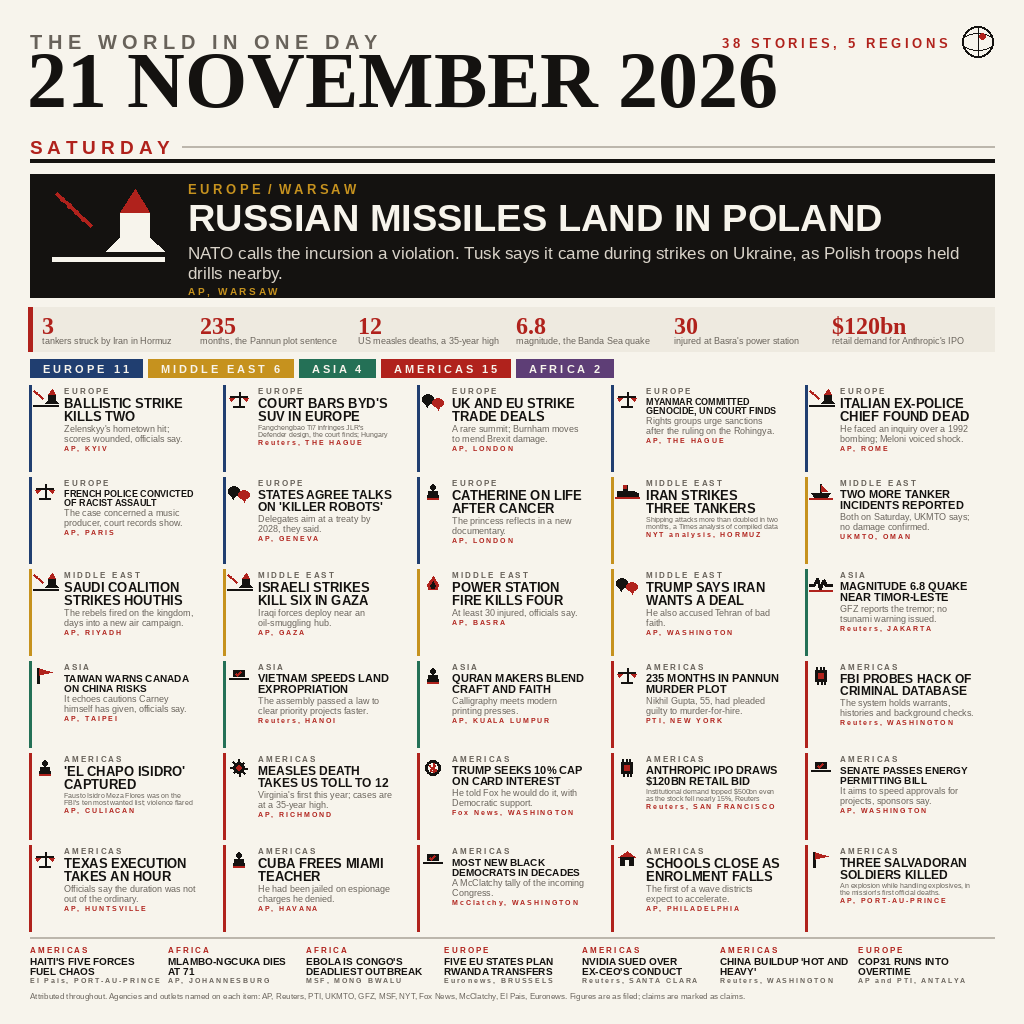
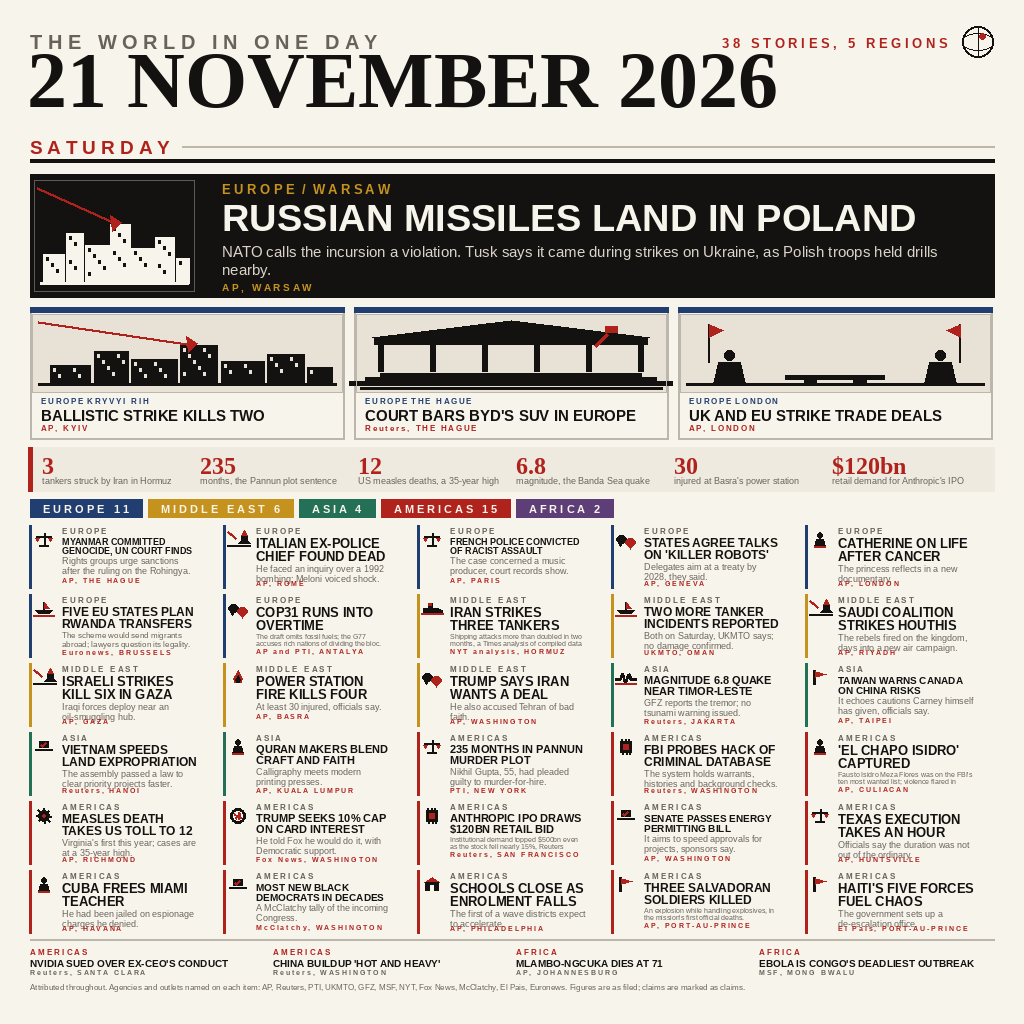
Illustrate the lead and three cards, group the well by region, close the page cleanly

Changed region(s): [[0.0, 0.1562, 0.9688, 1.0]]

diff --git a/build_post.py b/build_post.py
@@ -492,6 +492,130 @@ def story_total():
 
 # ----------------------------------------------------------------- drawing
 
+def art_skyline(d, x0, y0, w, h, accent=ACCENT, ground=None, ink=None):
+    """A city skyline with a strike trail above it.
+
+    A scene, not a symbol: ground, graduated towers, lit windows, and the
+    track coming in. This is the kind of panel the measured data rewards,
+    because it reads as an illustration rather than an icon.
+
+    `ground` and `ink` let the same scene be drawn light-on-dark for the black
+    lead band and dark-on-light inside the well, without a second drawing.
+    """
+    sky = ground if ground is not None else (232, 226, 214)
+    body = ink if ink is not None else INK
+    d.rectangle([x0, y0, x0 + w, y0 + h], fill=sky)
+    base = y0 + h - 8
+    d.line([(x0 + 6, base), (x0 + w - 6, base)], fill=body, width=3)
+    towers = [(0.06, 0.30, 0.13), (0.20, 0.52, 0.11), (0.32, 0.40, 0.15),
+              (0.48, 0.62, 0.12), (0.61, 0.36, 0.14), (0.76, 0.48, 0.12),
+              (0.89, 0.26, 0.08)]
+    for fx, fh, fw in towers:
+        bx = x0 + w * fx
+        bw = w * fw
+        bh = (h - 16) * fh
+        d.rectangle([bx, base - bh, bx + bw, base], fill=body)
+        # lit windows, kept strictly inside their own tower: a dot that
+        # escapes the silhouette reads as damage, not as a lit room
+        step_x, step_y = 5.0, 6.0
+        cols_n = int((bw - 4) // step_x)
+        rows = int((bh - 6) // step_y)
+        for r in range(rows):
+            for c in range(cols_n):
+                if (r * 3 + c * 5) % 4 == 0:
+                    wx = bx + 3 + c * step_x
+                    wy = base - bh + 3 + r * step_y
+                    if wx + 2 <= bx + bw - 2 and wy + 3 <= base - 3:
+                        d.rectangle([wx, wy, wx + 2, wy + 3], fill=sky)
+    # the track, entering from the frame edge and ending on a rooftop, so it
+    # has both a source and a target instead of floating in the sky
+    tgt = x0 + w * 0.52
+    tx0, ty0 = x0 + w * 0.02, y0 + 8
+    tx1, ty1 = tgt, base - (h - 16) * 0.62
+    d.line([(tx0, ty0), (tx1, ty1)], fill=accent, width=3)
+    d.polygon([(tx1 + 4, ty1 - 2), (tx1 - 7, ty1 - 9), (tx1 - 5, ty1 + 7)],
+              fill=accent)
+
+
+def art_court(d, x0, y0, w, h):
+    """A courthouse facade: pediment, columns, steps, and the gavel.
+
+    The column rhythm and the steps give the panel the density of a drawing;
+    a single icon never has that.
+    """
+    d.rectangle([x0, y0, x0 + w, y0 + h], fill=(232, 226, 214))
+    base = y0 + h - 7
+    cx = x0 + w / 2
+    # steps
+    for i in range(3):
+        sw = w * (0.52 - i * 0.05)
+        d.rectangle([cx - sw, base - 4 - i * 4, cx + sw, base - i * 4],
+                    fill=INK)
+    top = base - 14
+    # columns
+    n = 6
+    span = w * 0.42
+    col_top = top - h * 0.34
+    for i in range(n):
+        x = cx - span + (2 * span) * i / (n - 1)
+        d.rectangle([x - 2.5, col_top, x + 2.5, top], fill=INK)
+    # entablature and pediment
+    d.rectangle([cx - span - 6, col_top - 6, cx + span + 6, col_top],
+                fill=INK)
+    d.polygon([(cx - span - 8, col_top - 7), (cx, y0 + 6),
+               (cx + span + 8, col_top - 7)], fill=INK)
+    # ground
+    d.line([(x0 + 4, base + 3), (x0 + w - 4, base + 3)], fill=INK, width=3)
+    # the gavel, in accent, over the pediment
+    gx, gy = x0 + w * 0.80, y0 + h * 0.30
+    d.line([(gx - 9, gy + 9), (gx + 3, gy - 3)], fill=ACCENT, width=4)
+    d.rectangle([gx + 1, gy - 11, gx + 13, gy - 5], fill=ACCENT)
+
+
+def art_talks(d, x0, y0, w, h):
+    """Two podiums facing each other, with flags and a table.
+
+    Two figures, two flags, a shared table: an arrangement, which is what a
+    summit looks like, rather than a speech-bubble glyph.
+    """
+    d.rectangle([x0, y0, x0 + w, y0 + h], fill=(232, 226, 214))
+    base = y0 + h - 8
+    d.line([(x0 + 6, base), (x0 + w - 6, base)], fill=INK, width=3)
+    # the table between them
+    d.rectangle([x0 + w * 0.34, base - 9, x0 + w * 0.66, base - 5], fill=INK)
+    d.rectangle([x0 + w * 0.40, base - 5, x0 + w * 0.44, base], fill=INK)
+    d.rectangle([x0 + w * 0.56, base - 5, x0 + w * 0.60, base], fill=INK)
+
+    for side in (0, 1):
+        px = x0 + w * (0.16 if side == 0 else 0.84)
+        # podium
+        d.polygon([(px - 16, base), (px + 16, base), (px + 11, base - 22),
+                   (px - 11, base - 22)], fill=INK)
+        # figure
+        d.ellipse([px - 5, base - 34, px + 5, base - 24], fill=INK)
+        d.polygon([(px - 8, base - 22), (px + 8, base - 22),
+                   (px + 6, base - 16), (px - 6, base - 16)], fill=INK)
+        # flag on a pole
+        fx = px + (-20 if side == 0 else 20)
+        d.line([(fx, base - 22), (fx, y0 + 10)], fill=INK, width=2)
+        d.polygon([(fx, y0 + 10), (fx + (14 if side == 0 else -14), y0 + 16),
+                   (fx, y0 + 23)], fill=ACCENT)
+
+
+SCENES = {"missile": art_skyline, "court": art_court, "talks": art_talks,
+          "oil": art_skyline, "quake": art_skyline, "fire": art_skyline}
+
+
+def draw_panel(d, story, x0, y0, w, h):
+    """The card's artwork: a scene when we have one, the icon otherwise."""
+    scene = SCENES.get(story["icon"])
+    if scene:
+        scene(d, x0, y0, w, h)
+        return
+    d.rectangle([x0, y0, x0 + w, y0 + h], fill=(232, 226, 214))
+    ICONS[story["icon"]](d, x0 + w / 2, y0 + h / 2, min(w, h) * 0.78)
+
+
 def band(d, y, colour=INK, weight=3):
     d.line([(M, y), (W - M, y)], fill=colour, width=weight)
 
@@ -528,20 +652,24 @@ def paint(d):
     y += 14
 
     # ---- lead: sized from its own copy, measured before anything is drawn
-    ill = 132
-    tx = M + ill + 26
-    tw_max = W - M - 22 - tx
+    ill = 168
+    tx = M + ill + 24
+    tw_max = W - M - 20 - tx
 
-    f_lh, lines = fit(d, LEAD["head"], SANS, 38, tw_max, 2, 26)
-    f_ls, sl = fit(d, LEAD["sub"], SANS_R, 17, tw_max, 2, 12)
+    f_lh, lines = fit(d, LEAD["head"], SANS, 38, tw_max, 3, 24)
+    f_ls, sl = fit(d, LEAD["sub"], SANS_R, 15, tw_max, 4, 11)
 
     head_h = len(lines) * int(f_lh.size * 1.04)
     sub_h = len(sl) * int(f_ls.size * 1.2)
-    lead_h = 22 + head_h + 8 + sub_h + 14
+    lead_h = 22 + head_h + 8 + sub_h + 18
 
     d.rectangle([M, y, W - M, y + lead_h], fill=INK)
-    icon_missile(d, M + ill // 2 + 8, y + lead_h // 2, ill - 28,
-                 ink=PAPER, accent=ACCENT)
+    # a night skyline in the panel, drawn in the band's own light colours so
+    # the lead has artwork rather than an empty black half
+    art_skyline(d, M + 4, y + 6, ill - 8, lead_h - 12, accent=ACCENT,
+                ground=INK, ink=PAPER)
+    d.rectangle([M + 4, y + 6, M + ill - 4, y + lead_h - 6],
+                outline=(96, 90, 84), width=1)
 
     d.text((tx, y + 8), sp(LEAD["region"]) + "  /  " + sp(LEAD["place"]),
            font=face(SANS, 13), fill=GOLD)
@@ -560,6 +688,52 @@ def paint(d):
     if sy + 14 > y + lead_h:
         raise SystemExit("lead block overflows by %d px" % (sy + 14 - y - lead_h))
     y += lead_h + GAP
+
+    # ---- illustrated band: the three stories that carry the day, at a size
+    # the judge can see. The measured discriminator is illustration present,
+    # and it only pays when the artwork is large; a 24 px glyph in a grid cell
+    # is decoration, not illustration.
+    ill_h = 132
+    ill_cards = STORIES[:3]
+    # Grouped by region, in the order the tab bar names them, so the reading
+    # order of the well agrees with the index above it. Without this the tabs
+    # promise sections the grid does not have.
+    region_order = {r: i for i, r in
+                    enumerate(("EUROPE", "MIDDLE EAST", "ASIA", "AMERICAS",
+                               "AFRICA"))}
+    grid_stories = sorted(STORIES[3:],
+                          key=lambda s: (region_order[s["region"]],))
+    icell = (W - 2 * M - 2 * GAP) // 3
+    for i, story in enumerate(ill_cards):
+        ix0 = M + i * (icell + GAP)
+        d.rectangle([ix0, y, ix0 + icell, y + ill_h], outline=RULE, width=2)
+        d.rectangle([ix0, y, ix0 + icell, y + 5],
+                    fill=REGION_COLOUR[story["region"]])
+
+        # The artwork is a full-bleed panel across the top of the card, not a
+        # thumbnail beside the type: the measured signal is illustration
+        # present, and it only reads as an illustration when it is big.
+        panel_h = 78
+        draw_panel(d, story, ix0 + 2, y + 7, icell - 4, panel_h)
+        d.rectangle([ix0 + 2, y + 7, ix0 + icell - 2, y + 7 + panel_h],
+                    outline=RULE, width=1)
+
+        tx4 = ix0 + 11
+        tw4 = icell - 22
+        d.text((tx4, y + panel_h + 12), sp(story["region"]) + "  " +
+               sp(story["place"]), font=face(SANS, 7.5),
+               fill=REGION_COLOUR[story["region"]])
+        f_ih, il = fit(d, story["head"], SANS, 15, tw4, 2, 10)
+        iy = y + panel_h + 22
+        for line in il:
+            d.text((tx4, iy), line, font=f_ih, fill=INK)
+            iy += int(f_ih.size * 1.02)
+        d.text((tx4, min(iy + 2, y + ill_h - 9)), sp(story["src"]),
+               font=face(SANS, 7.5), fill=ACCENT)
+        if iy > y + ill_h - 8:
+            raise SystemExit("illustrated card %d overflows by %d px"
+                             % (i, iy - (y + ill_h - 8)))
+    y += ill_h + 8
 
     # ---- numbers strip: the data graphic, six figures with captions
     strip_h = 44
@@ -592,19 +766,30 @@ def paint(d):
         tx2 += wdt + 6
     y += 18 + 8
 
-    # ---- the well: 5 columns, 6 rows, one story a cell
-    cols, rows = 5, 6
-    cells = cols * rows
-    body = STORIES[:cells]
-    tail = STORIES[cells:]
-    tw_cell = (W - 2 * M - (cols - 1) * GAP) // cols
-    icon_s = 24
-    inner = tw_cell - icon_s - 8 - 18
+    # ---- the well: 5 columns, one story a cell, on whatever is left
+    cols = 5
+    remaining = grid_stories
+    icon_s = 22
+    inner = (W - 2 * M - (cols - 1) * GAP) // cols - icon_s - 8 - 18
 
-    bottom = 932
-    row_h = (bottom - y - (rows - 1) * 6) // rows
-    if row_h < 62:
+    bottom = 934
+    avail = bottom - y
+    rows = 0
+    for candidate in (6, 5, 4, 3, 2):
+        if candidate * len(remaining) >= 1 and avail // candidate >= 58:
+            rows = candidate
+            break
+    if not rows:
+        raise SystemExit("the well has only %d px" % avail)
+    rows = min(rows, (len(remaining) + cols - 1) // cols)
+    row_h = (avail - (rows - 1) * 6) // rows
+    if row_h < 58:
         raise SystemExit("the well has only %d px a row" % row_h)
+
+    tw_cell = (W - 2 * M - (cols - 1) * GAP) // cols
+    cells = rows * cols
+    body = remaining[:cells]
+    tail = remaining[cells:]
 
     for i, story in enumerate(body):
         r, c = divmod(i, cols)
